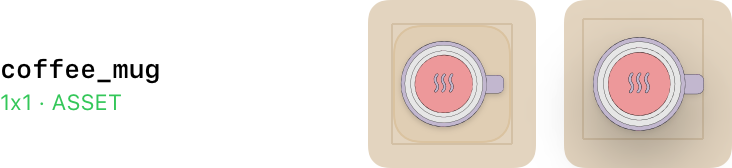
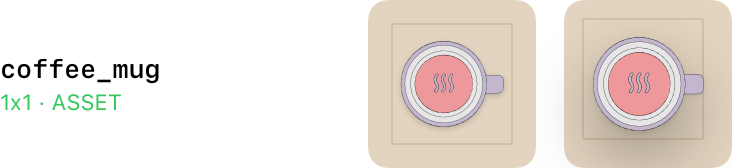
Mac build/test + screenshots (fb81c85)

Changed region(s): [[0.541, 0.7738, 0.6913, 0.8631], [0.541, 0.1488, 0.6913, 0.2083]]

diff --git a/PROJECT_NOTES.md b/PROJECT_NOTES.md
@@ -1,6 +1,6 @@
 # Tidy Desk: Tech & Setup — Ghi chú dự án
 
-> Cập nhật: 2026-11-12 · Trạng thái: build OK + 67/68 test pass, 1 skip (ArtPreviewTests, đúng thiết kế) trên Mac ở commit `4320def` (âm thanh theo chất liệu, hiệu ứng sống, BetaConfig mở khóa mọi màn). `tools/check_levels.py`: 8/8 OK · `tools/check_assets.py`: 6/27 hình thiết bị (`keyboard_mechanical` OK; 5 hình WARN tỉ lệ; còn lại dùng SF Symbol dự phòng). Ảnh: `screenshots/`.
+> Cập nhật: 2026-11-12 · Trạng thái: build OK + 67/68 test pass, 1 skip (ArtPreviewTests, đúng thiết kế) trên Mac ở commit `fb81c85` (hình màn 1–2, bỏ nền sau hình thật). `tools/check_levels.py`: 8/8 OK · `tools/check_assets.py`: 8/27 hình thiết bị (4 OK, 4 WARN tỉ lệ; còn lại dùng SF Symbol dự phòng). TestFlight gần nhất: build 3 (`4320def`). Ảnh: `screenshots/`.
 
 ## 1. App này là gì
 Game giải đố "dọn dẹp" (Cozy Tidy / Organization Puzzle) cho iOS 17+, chủ đề **bàn làm việc / góc setup công nghệ**. Mỗi màn bắt đầu với một bàn bừa bộn: vài món đã nằm sẵn sai chỗ trên bàn, các món còn lại ở **ngăn kéo phụ kiện** (Accessory Drawer) phía dưới. Người chơi kéo thả để mọi thứ vừa khít mặt bàn, không đè nhau, không tràn viền. Xếp đủ là qua màn ("Setup Complete!"). Giao diện tiếng Anh, nhắm thị trường toàn cầu.
@@ -44,16 +44,16 @@ Số nước = số lần đặt thành công (đặt món mới, hoặc dời m
 7. Ảnh thật cho thiết bị; thay 6 file WAV tạm bằng âm thanh thu thật (cùng tên, xem README). Thêm Localizable.xcstrings.
 
 ## 5. Kết quả build/test trên Mac
-- **Ngày:** 2026-11-12 · **Commit đã build:** `4320def` · **Xcode:** 26.5 (17F42), iOS Simulator 26.5, iPhone 17. Làm theo `MAC_BUILD.md`.
-- **Build app:** OK ngay lần đầu, không lỗi, không warning trong code dự án; asset catalog (4 SVG + 2 PNG mới) không có warning. **Không phải sửa file nào.**
-- **Test:** 68 test: **67 pass, 0 fail, 1 skip** (`ArtPreviewTests`, chỉ chạy khi bật `TEST_RUNNER_TIDY_SNAPSHOTS=1`). `ItemTraitsTests` mới pass hết. Dòng log "level_7.json: duplicate levelId 1" là do `LevelManagerTests` cố tình tạo file hỏng.
-- **Dữ liệu:** `check_levels.py` 8/8 OK. `check_assets.py`: 6/27 hình. `keyboard_mechanical` OK; WARN tỉ lệ: `cable_bundle` (0.90:1 vs 2:1, ~45%), `coffee_mug` (~83%), `keyboard_compact` (~74%), `keyboard_fullsize` (~76%), `mouse_wireless` (~68%).
-- **Ảnh từng hình (`screenshots/art/`, ~6.5 MB):** 27 file + 2 tấm tổng hợp. Hình thật rõ, không nhòe/méo, bóng khi nhấc và xoay đúng. `keyboard_mechanical` khít ô 4×1 đẹp nhất. `cable_bundle` (cuộn tròn) chỉ chiếm giữa ô 2×1, trống hai bên; `coffee_mug` và `mouse_wireless` nhỏ trong ô 1×1; `keyboard_fullsize` dùng chung PNG nên ô 5×1 dư hai đầu.
-- **Ảnh app (`screenshots/app/`):** `menu_light`, `level1_light`, `level5_light`, `level5_dark`. Nhận xét:
-  - Màn 5: bàn phím full (5×1) đặt sẵn trên bàn nhìn rõ, có quầng sáng nền RGB dưới bàn phím (hiệu ứng `underglow` mới). Header 2 dòng "Streamer / Corner" hiện đủ.
-  - Ngăn kéo: ly cà phê, cuộn dây, chuột (hình thật) nhỏ hơn hẳn các ô màu SF Symbol bên cạnh.
-  - Menu: mọi màn đều hiện "PLAY" (BetaConfig mở khóa hết) đúng ý. Simulator có tiến độ cũ nên menu tự cuộn tới màn 3; dòng nhắc "Test build · all levels unlocked" ở đầu danh sách bị cuộn khuất trong ảnh.
-  - Âm thanh, hiệu ứng sống (khói, đèn, sóng loa) và vệt sáng khi xong bàn chưa kiểm tra được bằng ảnh tĩnh: cần thử trên máy (TestFlight).
+- **Ngày:** 2026-11-12 · **Commit đã build:** `fb81c85` · **Xcode:** 26.5 (17F42), iOS Simulator 26.5, iPhone 17. Làm theo `MAC_BUILD.md`.
+- **Build app:** OK, không lỗi, không warning trong code dự án hay asset catalog. **Không phải sửa file nào.**
+- **Test:** 68 test: **67 pass, 0 fail, 1 skip** (`ArtPreviewTests`, chỉ chạy khi bật `TEST_RUNNER_TIDY_SNAPSHOTS=1`). Dòng log "level_7.json: duplicate levelId 1" là do `LevelManagerTests` cố tình tạo file hỏng.
+- **Dữ liệu:** `check_levels.py` 8/8 OK. `check_assets.py`: 8/27 hình. OK: `headphones`, `keyboard_compact`, `keyboard_mechanical`, `speaker_tower`. WARN tỉ lệ: `cable_bundle` (~83%), `coffee_mug` (~83%), `keyboard_fullsize` (~76%), `mouse_wireless` (~68%).
+- **Ảnh từng hình (`screenshots/art/`, ~6.9 MB):** 27 file + 2 tấm tổng hợp. Hình thật rõ, không nhòe/méo; không còn khung nền màu phía sau, bóng đổ theo dáng hình, nhấc và xoay đúng.
+- **Ảnh app (`screenshots/app/`):** `menu_light`, `level1_light`, `level2_light` (mới: headphones, speaker_tower, cable_bundle), `level5_light`, `level5_dark`. Nhận xét:
+  - Màn 1: ly cà phê nằm thẳng trên bàn, có khói bốc lên (hiệu ứng `steam`). Bàn phím compact giờ khít ô 3×1.
+  - Màn 2: bó dây nằm ngang đẹp, gần khít 2 ô. Tai nghe và loa tháp trong ngăn kéo rõ nét. Còn `desk_lamp_tall` dùng ô màu SF Symbol nên lệch tông với các hình thật.
+  - Màn 5 tối: quầng sáng màn hình và RGB dưới bàn phím hiện rõ. Nút xoay ↻ đè lên góc hình thật (bó dây, bàn phím); ở chế độ tối nút trên bó dây hơi khó thấy.
+  - Chuột và ly cà phê trong ngăn kéo vẫn nhỏ hơn các món khác (hình chưa phủ hết ô 1×1).
 
 ## 5b. TestFlight (bản thử, mượn team RETALIX USA, INC)
 - App trên App Store Connect: **Test Tidy Desk** (Apple ID 6833522226, SKU `testtidydesk`), bundle ID **`com.powervh.tidydesk.beta`**, team `62SFVG2ZD8` (tài khoản Xcode `vu.huynh@ncr.com`). Bundle ID thật `com.powervh.tidydesk` để dành cho tài khoản riêng (đừng tạo app ASC với nó trong Retalix).
@@ -69,6 +69,7 @@ xcodebuild -exportArchive -archivePath <tmp>/TidyDesk.xcarchive -exportOptionsPl
 - Icon hiện là icon tạm do `tools/generate_icon.py` vẽ (1024×1024, không alpha). Thay icon thật: ghi đè `Assets.xcassets/AppIcon.appiconset/AppIcon.png`.
 
 ## Lịch sử
+- 2026-11-12 (Build Mac `fb81c85`): build OK không cần sửa gì, 67/68 pass + 1 skip. Chụp lại `screenshots/art/` + `screenshots/app/` (thêm `level2_light`).
 - 2026-11-12 (Hình màn 1–2, **chưa build**): thêm `headphones` (2×2), `speaker_tower` (1×3); thay `keyboard_compact` (PNG 3:1, giờ khít ô) và `cable_bundle` (bó dây nằm ngang có đầu cắm, ~83% ô). `cable_bundle`/`headphones` là SVG Recraft có nền bị cắt nhiều mảnh nên script không bỏ được: đã render sang PNG (Chrome headless, nền trong suốt) rồi import PNG. `check_assets.py`: 8/27 (OK: keyboard_compact, keyboard_mechanical, cable_bundle, headphones, speaker_tower; WARN: coffee_mug, mouse_wireless, keyboard_fullsize). Còn thiếu cho màn 2: `desk_lamp_tall`.
 - 2026-11-12 (Hình thật, **chưa build**): bỏ khung/nền màu nhạt phía sau món có hình thật (`ItemTileView.artworkTile`): hình nằm thẳng trên bàn / ngăn kéo như đồ thật, chỉ còn bóng đổ theo dáng hình. Viền đỏ khi thả sai vẫn giữ. Vùng chạm vẫn phủ cả ô (`contentShape` trong `DraggableItemView`).
 - 2026-11-12 (TestFlight): upload build **1.0 (3)** = commit `4320def` (âm thanh theo chất liệu, hiệu ứng sống, lights-on, mở khóa mọi màn) lên "Test Tidy Desk".
